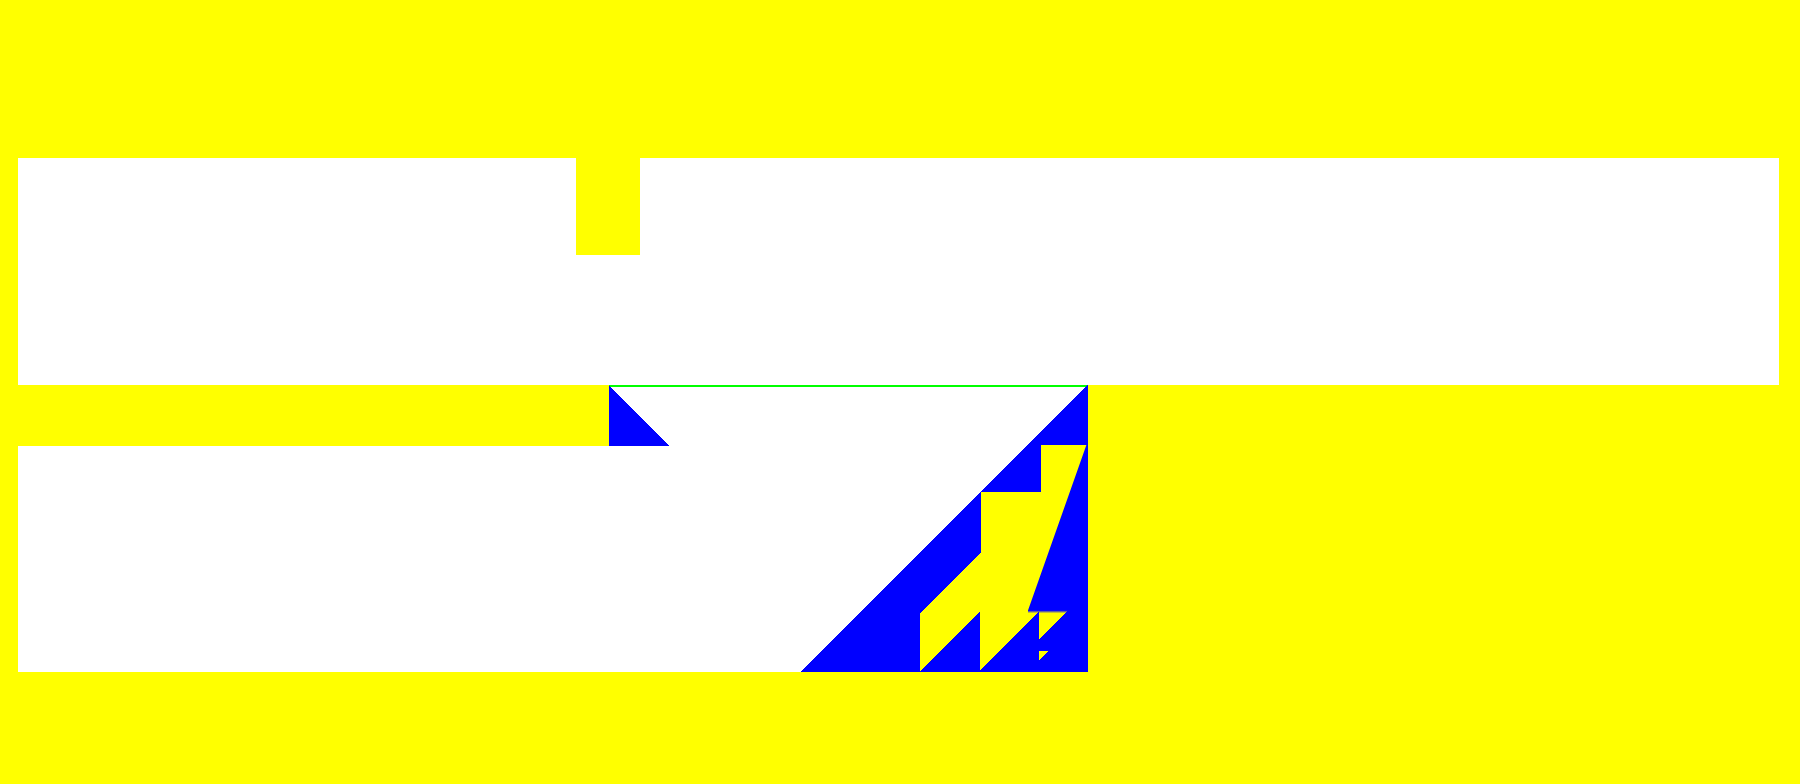
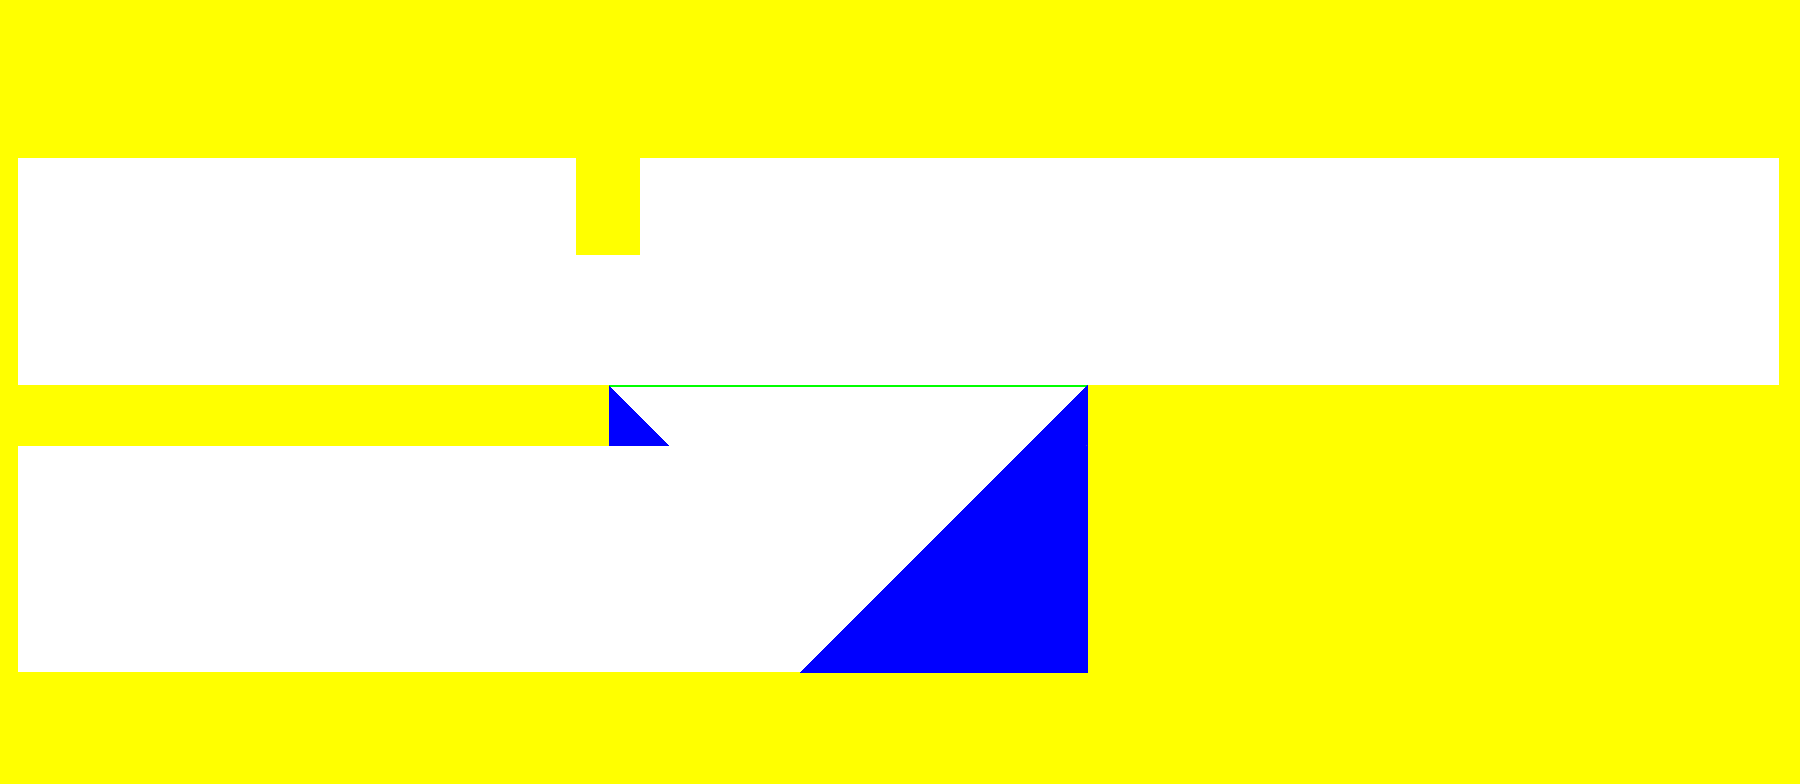
김수원 : 업데이트

Changed region(s): [[0.4978, 0.551, 0.6222, 0.8571]]

diff --git a/DirectX_KatanaZero/KatanaZero_Core/PlayerBase_State.cpp b/DirectX_KatanaZero/KatanaZero_Core/PlayerBase_State.cpp
@@ -38,7 +38,7 @@ void APlayerBase::Idle(float _DeltaTime)
 		return;
 	}
 
-	if (false == IsOnGround() && false == IsOnPlatForm())
+	if (false == IsOnGround() && false == IsOnPlatForm() && false == IsOnStairs())
 	{
 		State.ChangeState("Fall");
 		return;
@@ -56,7 +56,7 @@ void APlayerBase::IdleToRun(float _DeltaTime)
 {
 	RunVelUpdate(_DeltaTime);
 	PosUpdate(_DeltaTime);
-	OnGroundPosUpdate();
+	OnStairPosAdjust();
 
 	if (true == IsDirChangeKeyDown())
 	{
@@ -102,7 +102,7 @@ void APlayerBase::RunStart()
 void APlayerBase::Run(float _DeltaTime)
 {
 	PosUpdate(_DeltaTime);
-	OnGroundPosUpdate();
+	OnStairPosAdjust();
 
 	// StateChange Check
 	if (true == IsJumpInputDown())
@@ -138,11 +138,16 @@ void APlayerBase::Run(float _DeltaTime)
 
 void APlayerBase::RunToIdleStart()
 {
+	Velocity.Y = 0.0f;
+
 	Renderer->ChangeAnimation(Anim::player_run_to_idle);	
 }
 
 void APlayerBase::RunToIdle(float _DeltaTime)
 {
+	PosUpdate(_DeltaTime);
+	OnStairPosAdjust();
+
 	if (true == IsDirChangeKeyPress())
 	{
 		Velocity = FVector::Zero;
@@ -246,7 +251,6 @@ void APlayerBase::Roll(float _DeltaTime)
 {
 	RollVelXUpdate(_DeltaTime);
 	PosUpdate(_DeltaTime);
-	OnGroundPosUpdate();
 
 	// StateChange Check
 	if (true == Renderer->IsCurAnimationEnd())
@@ -330,13 +334,15 @@ void APlayerBase::Fall(float _DeltaTime)
 		return;
 	}
 
-	if (true == IsOnGround() && true == IsRunToRollInputPress() && true == IsCrouchToRollInputPress())
+	if ((true == IsOnGround() || true == IsOnStairs())
+	&& true == IsRunToRollInputPress() 
+	&& true == IsCrouchToRollInputPress())
 	{
 		State.ChangeState("Roll");
 		return;
 	}
 
-	if (true == IsOnGround() || true == IsOnPlatForm())
+	if (true == IsOnGround() || true == IsOnPlatForm() || true == IsOnStairs())
 	{
 		State.ChangeState("RunToIdle");
 		return;

diff --git a/DirectX_KatanaZero/KatanaZero_Core/PlayerBase.cpp b/DirectX_KatanaZero/KatanaZero_Core/PlayerBase.cpp
@@ -113,6 +113,33 @@ bool APlayerBase::IsOnPlatForm()
 	return Result;
 }
 
+bool APlayerBase::IsOnStairs()
+{
+	bool Result = false;
+
+	std::shared_ptr<UEngineTexture> MapTex = AColMapObject::GetMapTex();
+	FVector MapTexScale = MapTex->GetScale();
+
+	FVector CurPos = GetActorLocation();
+	CurPos.Y = MapTexScale.Y - CurPos.Y;
+	Color8Bit PixelColor = MapTex->GetColor(CurPos, Color8Bit::Black);
+
+	if (ColMap::BLUE == PixelColor)
+	{
+		Result = true;
+	}
+
+	return Result;
+}
+
+void APlayerBase::OnStairPosAdjust()
+{
+	if (true == IsOnStairs())
+	{
+		AddActorLocation({ 0.0f, 1.0f, 0.0f });
+	}
+}
+
 ////////////////////
 // FSM Setting Start
 void APlayerBase::SetRunVel()
@@ -171,27 +198,6 @@ void APlayerBase::GravityUpdate(float _DeltaTime)
 	if (Const::player_max_speedy < abs(Velocity.Y))
 	{
 		Velocity.Y = -Const::player_max_speedy;
-	}
-}
-
-void APlayerBase::OnGroundPosUpdate()
-{
-	std::shared_ptr<UEngineTexture> MapTex = AColMapObject::GetMapTex();
-	FVector MapTexScale = MapTex->GetScale();
-
-	FVector CurPos = GetActorLocation();
-	CurPos.Y = MapTexScale.Y - CurPos.Y;
-	Color8Bit PixelColor = MapTex->GetColor(CurPos, Color8Bit::Black);
-
-	if (ColMap::YELLOW == PixelColor || ColMap::GREEN == PixelColor)
-	{
-		AddActorLocation({ 0.0f, 1.0f, 0.0f });
-		return;
-	}
-	else
-	{
-		AddActorLocation({ 0.0f, -1.0f, 0.0f });
-		return;
 	}
 }
 

diff --git a/DirectX_KatanaZero/KatanaZero_Core/PlayerBase.h b/DirectX_KatanaZero/KatanaZero_Core/PlayerBase.h
@@ -26,6 +26,11 @@ public:
 		return Renderer;
 	}
 
+	inline std::string GetCurState() const
+	{
+		return State.GetCurStateName();
+	}
+
 protected:
 	void BeginPlay() override;
 	void Tick(float _DeltaTime) override;
@@ -35,6 +40,9 @@ private:
 	bool IsDirChangeKeyPress();
 	bool IsOnGround();
 	bool IsOnPlatForm();
+	bool IsOnStairs();
+
+	void OnStairPosAdjust();
 
 private:
 	USpriteRenderer* Renderer = nullptr;
@@ -108,8 +116,6 @@ private:
 	void JumpVelYUpdate(float _DeltaTime);
 
 	void RollVelXUpdate(float _DeltaTime);
-
-	void OnGroundPosUpdate();
 
 	void FallVelXUpdate(float _DeltaTime);
 	void FallGravityUpdate(float _DeltaTime);

diff --git a/DirectX_KatanaZero/EngineCore/StateManager.h b/DirectX_KatanaZero/EngineCore/StateManager.h
@@ -38,6 +38,11 @@ public:
 
 	void ChangeState(std::string_view _Name);
 
+	inline std::string GetCurStateName() const
+	{
+		return StateName;
+	}
+
 	void Update(float _Time);
 
 protected:
@@ -46,5 +51,6 @@ protected:
 private:
 	std::map<std::string, std::shared_ptr<UState>> States;
 	std::shared_ptr<UState> CurState = nullptr;
+	std::string StateName;
 };
 

diff --git a/DirectX_KatanaZero/KatanaZero_Core/Factory_001.cpp b/DirectX_KatanaZero/KatanaZero_Core/Factory_001.cpp
@@ -52,4 +52,9 @@ void AFactory_001::DebugMessageFunction()
 		std::string Msg = std::format("AimPos : {}\n", Aim->GetActorLocation().ToString());
 		UEngineDebugMsgWindow::PushMsg(Msg);
 	}
+
+	{
+		std::string Msg = std::format("Player_State : {}\n", Player->GetCurState());
+		UEngineDebugMsgWindow::PushMsg(Msg);
+	}
 }

diff --git a/DirectX_KatanaZero/KatanaZero_Core/MouseAim.cpp b/DirectX_KatanaZero/KatanaZero_Core/MouseAim.cpp
@@ -19,7 +19,7 @@ void AMouseAim::BeginPlay()
 	StateInit();
 
 	Aim->SetSprite(ImgRes::ui_cursor);
-	Aim->SetAutoSize(10.0f, true);
+	Aim->SetAutoSize(2.0f, true);
 	Aim->SetOrder(ERenderOrder::UI);
 	State.ChangeState("Play");
 }

diff --git a/DirectX_KatanaZero/KatanaZero_Core/Constant.h b/DirectX_KatanaZero/KatanaZero_Core/Constant.h
@@ -4,6 +4,7 @@ namespace ColMap
 {
 	const Color8Bit YELLOW	= Color8Bit(255, 255, 0, 255);
 	const Color8Bit GREEN	= Color8Bit(0, 255, 0, 255);
+	const Color8Bit BLUE	= Color8Bit(0, 0, 255, 255);
 }
 
 namespace ImgRes
